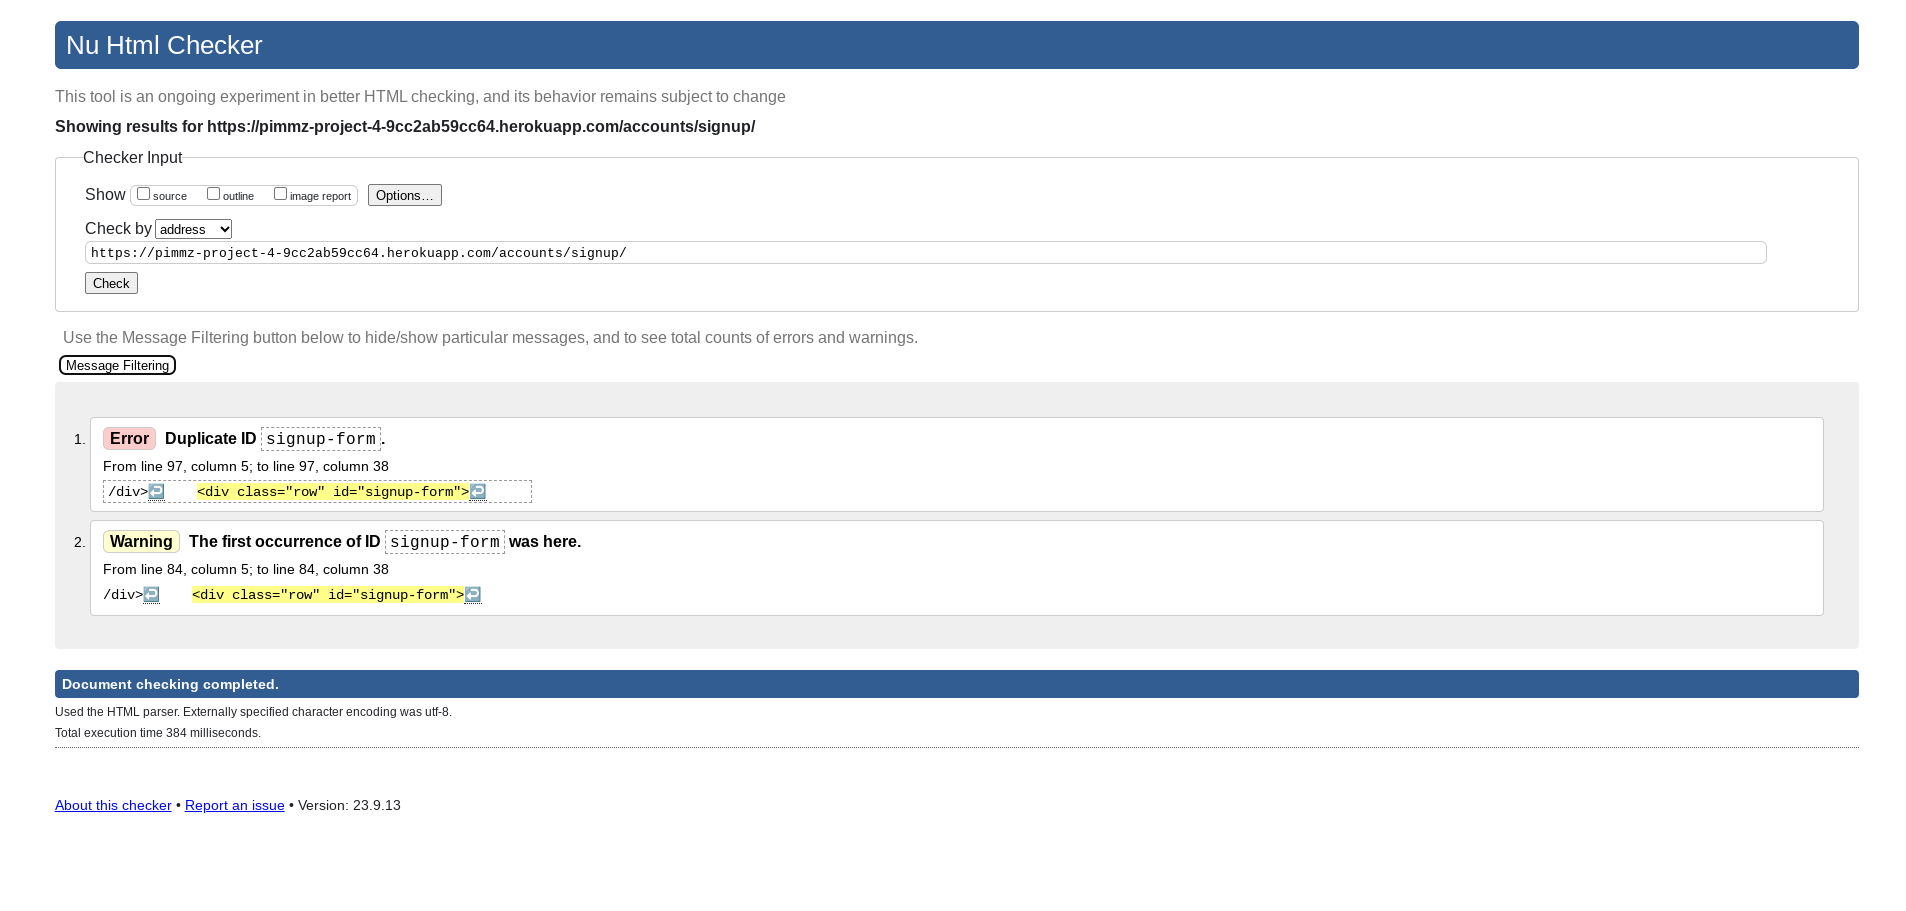
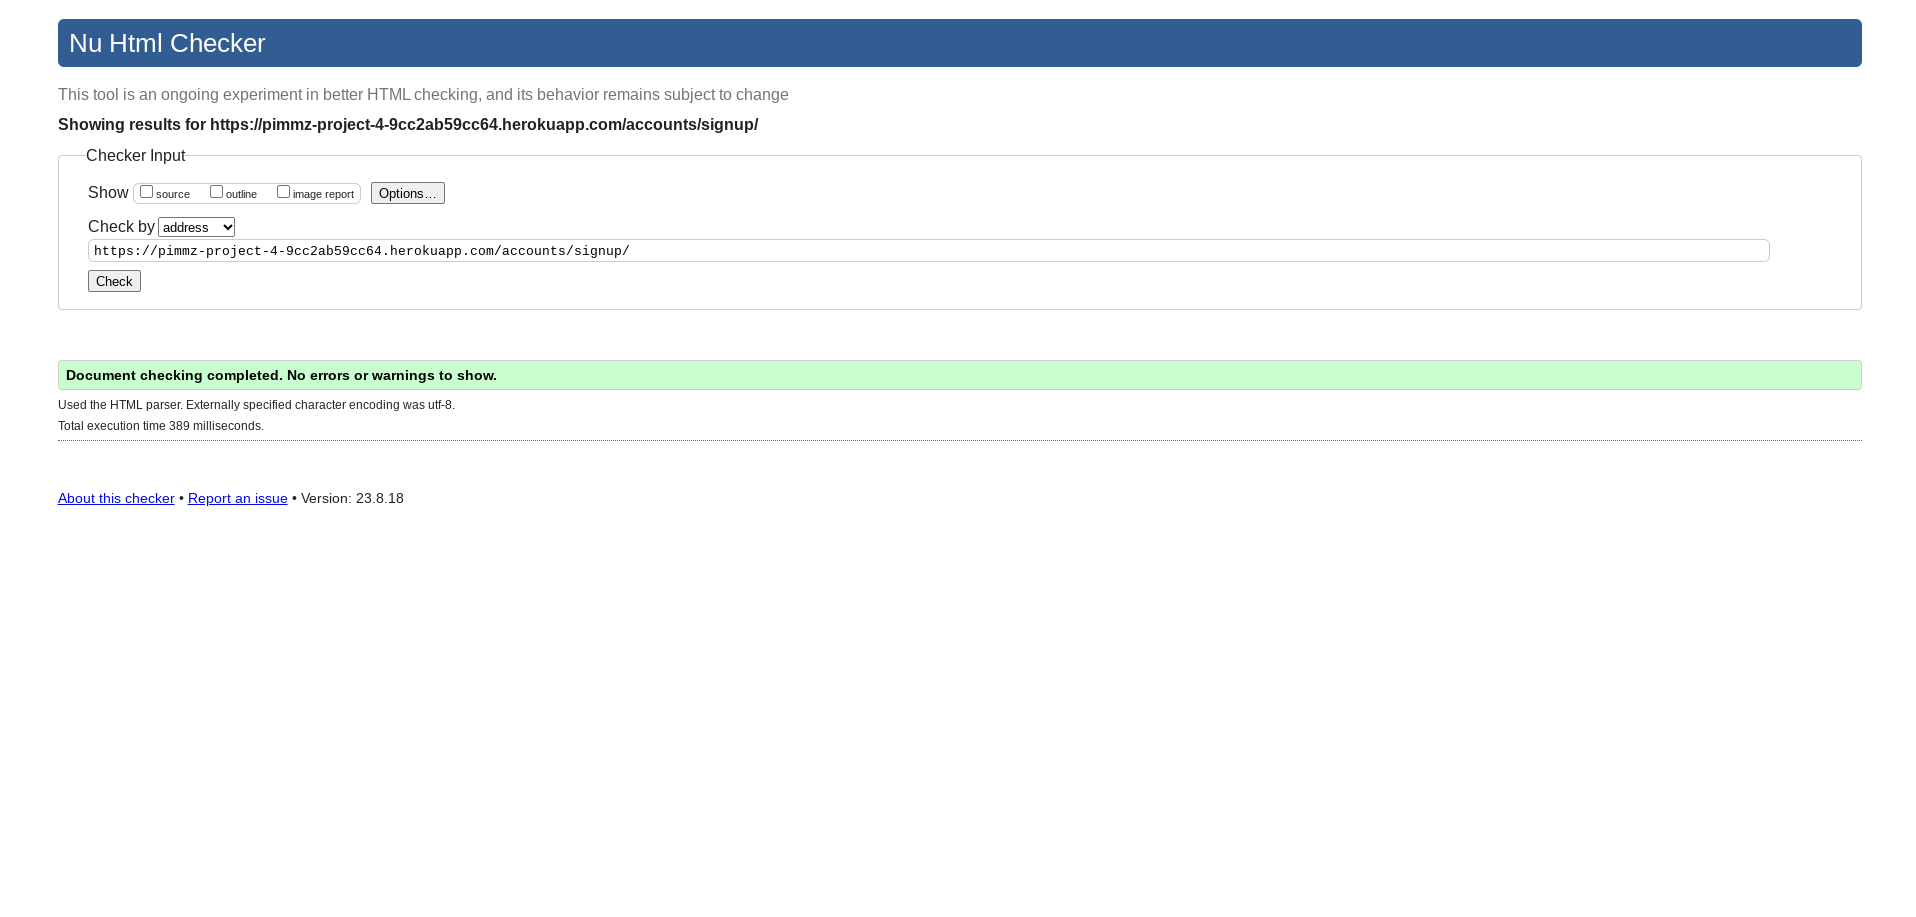
Html validator updated

diff --git a/TESTING.md b/TESTING.md
@@ -14,16 +14,14 @@ I have used the recommended [HTML W3C Validator](https://validator.w3.org) to va
 | --- | --- | --- | --- |
 | Home | [W3C](https://validator.w3.org/nu/?doc=https%3A%2F%2Fpimmz-project-4-9cc2ab59cc64.herokuapp.com%2F) | ![screenshot](documentation/testing_images/htmlcheck1.png) | Pass: No Errors  |
 | About | [W3C](https://validator.w3.org/nu/?doc=https%3A%2F%2Fpimmz-project-4-9cc2ab59cc64.herokuapp.com%2Fabout%2F) | ![screenshot](documentation/testing_images/htmlcheck2.png) | Forbidden code point U+009d. Fixed by removing invalid syntax |
-| Register | [W3C](https://validator.w3.org/nu/?doc=https%3A%2F%2Fpimmz-project-4-9cc2ab59cc64.herokuapp.com%2Faccounts%2Fsignup%2F) | ![screenshot](documentation/testing_images/htmlcheck3.png) | Error: Duplicate ID signup-form. I have changed the ID but the register page fails. I have rechecked all the settings and changed the debug but keep getting a server error. The page works perfectly if it is left with duplicate. Time constraints force me to move forward.|
+| Register | [W3C](https://validator.w3.org/nu/?doc=https%3A%2F%2Fpimmz-project-4-9cc2ab59cc64.herokuapp.com%2Faccounts%2Fsignup%2F) | ![screenshot](documentation/testing_images/htmlcheck3.png) | There was an Error: Duplicate ID signup-form. Server 500. trailing slash. These wouldnt remedy by changing the duplicate Id or removing the slash and were traced back to a google authentication issue which the Tutors dont advise on. So I have had to delete the google and facebook button to resolve the error due to spending to much time on it which I simply dont have. |
 | Login | [W3C](https://validator.w3.org/nu/?doc=https%3A%2F%2Fpimmz-project-4-9cc2ab59cc64.herokuapp.com%2Faccounts%2Flogin%2F) | ![screenshot](documentation/testing_images/htmlcheck4.png) | Pass: No Errors |
-| Adoption| [W3C](https://validator.w3.org/nu/?doc=https%3A%2F%2Fpimmz-project-4-9cc2ab59cc64.herokuapp.com%2Faccounts%2Fsignup%2F%3Fnext%3D%2Fadoption%2F) | ![screenshot](documentation/testing_images/htmlcheck3.png) | Error: Duplicate ID signup-form. I have changed the ID but the register page fails. I have rechecked all the settings and changed the debug but keep getting a server error. The page works perfectly if it is left with duplicate. Time constraints force me to move forward.|
-| Rehome | [W3C](https://validator.w3.org/nu/?doc=https%3A%2F%2Fpimmz-project-4-9cc2ab59cc64.herokuapp.com%2Faccounts%2Fsignup%2F%3Fnext%3D%2Frehome%2F) | ![screenshot](documentation/testing_images/htmlcheck3.png) | Error: Duplicate ID signup-form. I have changed the ID but the register page fails. I have rechecked all the settings and changed the debug but keep getting a server error. The page works perfectly if it is left with duplicate. Time constraints force me to move forward.|
-| Post Room | [W3C](https://validator.w3.org/nu/?doc=https%3A%2F%2Fpimmz-project-4-9cc2ab59cc64.herokuapp.com%2Faccounts%2Fsignup%2F%3Fnext%3D%2Fblog.html) | ![screenshot](documentation/testing_images/htmlcheck3.png) | Error: Duplicate ID signup-form. I have changed the ID but the register page fails. I have rechecked all the settings and changed the debug but keep getting a server error. The page works perfectly if it is left with duplicate. Time constraints force me to move forward.|
-| Adoption Details | [W3C](https://validator.w3.org/nu/?doc=https%3A%2F%2FPimmz.github.io%2FProject-4%2Fquiz.html) | ![screenshot](documentation/html-validation-quiz.png) | Pass: No Errors |
-| Rehome Details | [W3C](https://validator.w3.org/nu/?doc=https%3A%2F%2FPimmz.github.io%2FProject-4%2Fquiz.html) | ![screenshot](documentation/html-validation-quiz.png) | Pass: No Errors |
-| Add Blog | n/a | ![screenshot](documentation/html-validation-add-blog.png) | Duplicate IDs found, and fixed |
-| Checkout | n/a | ![screenshot](documentation/html-validation-checkout.png) | Pass: No Errors |
-| x | x | x | repeat for all remaining HTML files |
+| Adoption| [W3C](https://validator.w3.org/nu/?doc=https%3A%2F%2Fpimmz-project-4-9cc2ab59cc64.herokuapp.com%2Faccounts%2Fsignup%2F%3Fnext%3D%2Fadoption%2F) | ![screenshot](documentation/testing_images/htmlcheck5.png) | Pass: No Errors |
+| Rehome | [W3C](https://validator.w3.org/nu/?doc=https%3A%2F%2Fpimmz-project-4-9cc2ab59cc64.herokuapp.com%2Faccounts%2Fsignup%2F%3Fnext%3D%2Frehome%2F) | ![screenshot](documentation/testing_images/htmlcheck6.png) |  Pass: No Errors |
+| Post Room | [W3C](https://validator.w3.org/nu/?doc=https%3A%2F%2Fpimmz-project-4-9cc2ab59cc64.herokuapp.com%2Faccounts%2Fsignup%2F%3Fnext%3D%2Fblog.html) | ![screenshot](documentation/testing_images/htmlcheck7.png) |  Pass: No Errors |
+| Adoption Details | [W3C](https://pimmz-project-4-9cc2ab59cc64.herokuapp.com/adoption/29/) | ![screenshot](documentation/testing_images/htmlcheck8.png) | Pass: No Errors |
+| Rehome Details | [W3C](https://validator.w3.org/nu/?doc=https%3A%2F%2Fpimmz-project-4-9cc2ab59cc64.herokuapp.com%2Faccounts%2Fsignup%2F%3Fnext%3D%2Frehome%2F26%2F) | ![screenshot](documentation/testing_images/htmlcheck9.png) | Pass: No Errors |
+
 
 ⚠⚠⚠⚠⚠ START OF NOTES (to be deleted) ⚠⚠⚠⚠⚠
 
